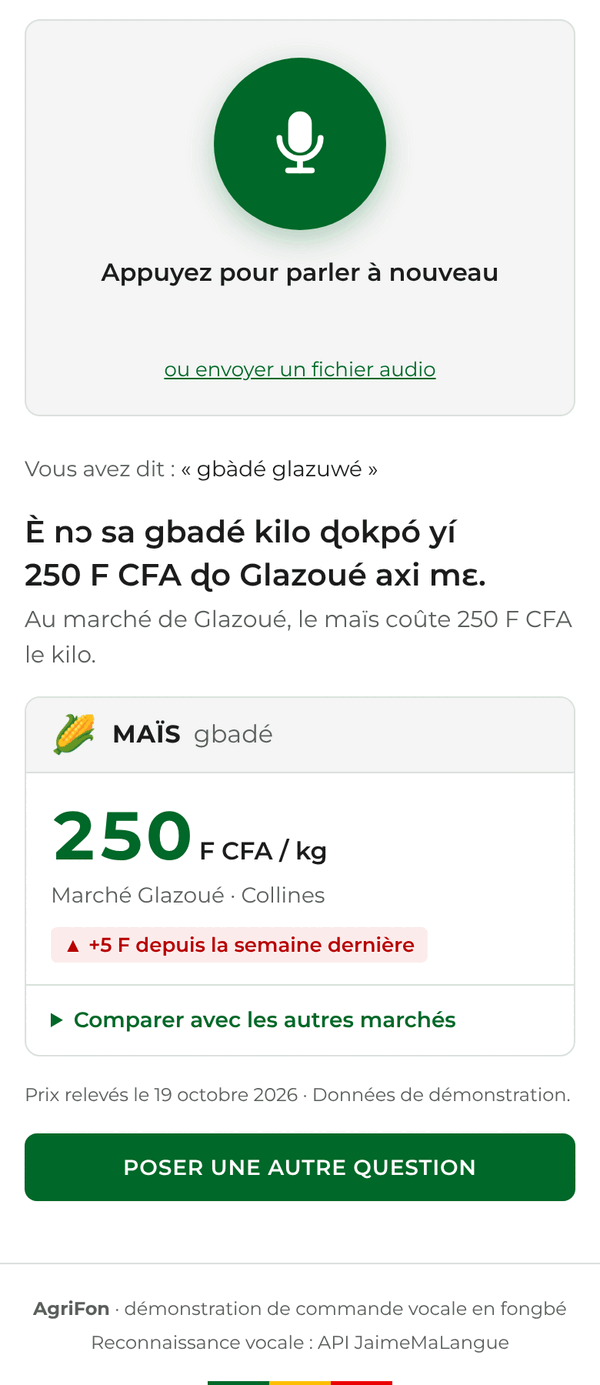
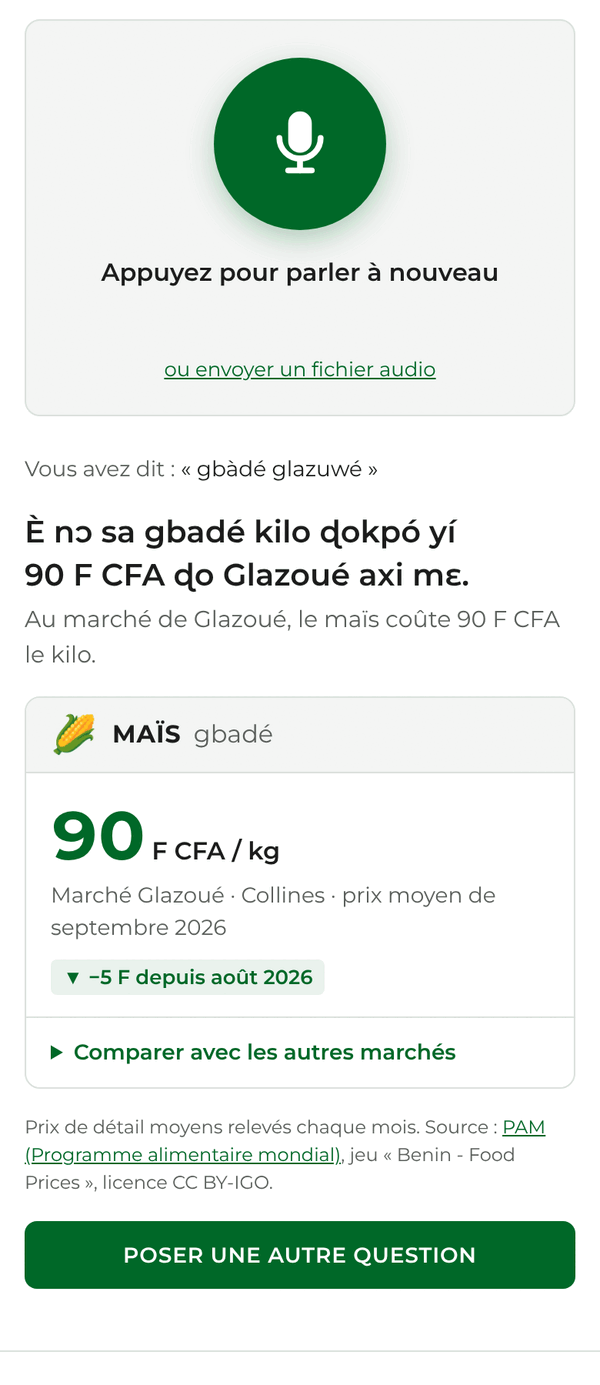
docs(readme): document wfp price source and weekly import

diff --git a/README.md b/README.md
@@ -17,13 +17,13 @@ L'application est une PWA (application web installable sur téléphone). La reco
   </tr>
 </table>
 
-<sub>Captures réalisées en mode simulation (réponses factices), bandeau « Mode simulation » masqué.</sub>
+<sub>Captures réalisées en mode simulation (transcriptions factices, prix réels), bandeau « Mode simulation » masqué.</sub>
 
 ## Les deux démos
 
 | Démo | La personne dit (en fongbé) | Ce qui est extrait | Ce que fait le système |
 | --- | --- | --- | --- |
-| Prix du marché | « Combien coûte le maïs au marché de Glazoué ? » | le produit et le marché | cherche le prix dans la base et l'affiche |
+| Prix du marché | « Combien coûte le maïs au marché de Glazoué ? » | le produit et le marché | cherche le dernier prix relevé et l'affiche |
 | Signalement d'une maladie des cultures | « Les feuilles de mon maïs jaunissent. » | la culture et le symptôme | transmet le signalement localisé au conseiller agricole et confirme la réception |
 
 Un écran conseiller (`/conseiller`) reçoit les signalements en direct. Quand le conseiller prend un signalement en charge, le téléphone de la personne affiche « Pris en charge par le conseiller ».
@@ -54,7 +54,7 @@ Le fichier `.env` est lu au démarrage. Il est ignoré par Git : les identifiant
 | `ASR_URL` | adresse de l'API | `https://51-159-167-70.sslip.io` |
 | `ASR_SIMULATION` | `1` pour des réponses factices, sans appel à l'API | désactivé |
 | `PORT`, `HOST` | port et interface d'écoute | `3000`, `0.0.0.0` |
-| `DOSSIER_DONNEES` | dossier des signalements et de leurs audios | `stockage` |
+| `DOSSIER_DONNEES` | dossier des signalements, de leurs audios et des prix importés | `stockage` |
 | `CODE_CONSEILLER` | si renseigné, l'écran conseiller demande ce code | aucun |
 
 ### Essayer sans identifiants
@@ -84,14 +84,20 @@ git clone https://github.com/Magloire04/demo_agriculture.git ~/agrifon-app
 cd ~/agrifon-app && bash scripts/deployer.sh mon-domaine.example
 ```
 
-Au premier passage, le script demande les identifiants de l'API et crée `.env`, lisible par le seul compte. Il déclare ensuite l'application Node.js avec la version la plus récente proposée (20.12 au minimum) et le fichier de démarrage `app.cjs`, la redémarre et vérifie que `/api/etat` répond.
+Au premier passage, le script demande les identifiants de l'API et crée `.env`, lisible par le seul compte. Il déclare ensuite l'application Node.js avec la version la plus récente proposée (20.12 au minimum) et le fichier de démarrage `app.cjs`, importe les derniers prix (voir « Prix réels »), redémarre l'application et vérifie que `/api/etat` répond.
 
 Pour mettre à jour le site, relancer la seconde commande : le code est récupéré depuis GitHub, `.env` et `stockage/` sont conservés.
+
+Pour importer les prix chaque semaine sans redéployer, ajouter cette tâche dans « Cron Jobs » de cPanel (ici le lundi à 6 h 17) :
+
+```
+17 6 * * 1 bash $HOME/agrifon-app/scripts/importer-prix.sh >> $HOME/agrifon-app/stockage/import-prix.log 2>&1
+```
 
 ## Déroulé de la démo
 
 1. Ouvrir `/conseiller` sur l'écran de la salle.
-2. Sur le téléphone, ouvrir « Prix du marché ». Appuyer sur le micro, dire la phrase, appuyer de nouveau. La réponse s'affiche, par exemple « Au marché de Glazoué, le maïs coûte 250 F CFA le kilo », avec le prix en grands caractères. Toucher « Comparer avec les autres marchés » affiche les prix des autres marchés.
+2. Sur le téléphone, ouvrir « Prix du marché ». Appuyer sur le micro, dire la phrase, appuyer de nouveau. La réponse s'affiche, par exemple « Au marché de Glazoué, le maïs coûte 90 F CFA le kilo », avec le prix en grands caractères, le mois du relevé et l'évolution depuis le relevé précédent. Toucher « Comparer avec les autres marchés » affiche les prix des autres marchés.
 3. Ouvrir « Signaler », partager la position ou choisir la commune, puis dire la phrase. Le téléphone confirme la réception avec une référence. Le signalement apparaît sur l'écran conseiller avec la transcription et le message vocal.
 4. Sur l'écran conseiller, cliquer sur « Prendre en charge ». Quelques secondes plus tard, le téléphone affiche « Pris en charge par le conseiller ».
 
@@ -106,11 +112,11 @@ L'application retrouve les mots attendus dans la transcription, sans tenir compt
 | Symptômes | `data/lexique.json`, champ `fon` des `symptomes` | vide : seuls les mots français sont reconnus |
 | Parties de la plante | `data/lexique.json`, champ `fon` des `parties` | seul « ama » (feuilles) ; tiges, racines et fruits vides |
 | Cultures | `data/lexique.json`, champ `fon` des `cultures` | quelques noms courants (gbadé, mɔlikun, azin…) à vérifier |
-| Produits | `data/prix.json`, champ `termes_fon` | idem |
-| Marchés | `data/prix.json`, champ `termes` | variantes de prononciation des noms de lieux |
+| Produits | `data/referentiel.json`, champ `termes_fon` | idem |
+| Marchés | `data/referentiel.json`, champ `termes` | variantes de prononciation des noms de lieux |
 | Communes | `data/communes.json`, champ `termes` | noms officiels ; variantes pour 13 communes sur 77 seulement |
-| Réponses affichées | `data/reponses.json`, champ `fon` | 14 phrases et 2 unités, rédigées d'après des sources publiées, à faire relire |
-| Noms des produits | `data/prix.json`, champ `nom_fon` | affichés à côté du nom français, à faire relire |
+| Réponses affichées | `data/reponses.json`, champ `fon` | 15 phrases et 2 unités, rédigées d'après des sources publiées, à faire relire |
+| Noms des produits | `data/referentiel.json`, champ `nom_fon` | affichés à côté du nom français, à faire relire |
 
 Méthode : dire chaque phrase de démonstration dans l'application, lire la ligne « Vous avez dit : … », ajouter les mots tels qu'ils y sont transcrits dans le fichier concerné, puis redémarrer le serveur.
 
@@ -131,13 +137,23 @@ flowchart LR
 
 Le téléphone n'appelle jamais l'API directement : il envoie l'audio au serveur AgriFon, qui ajoute les identifiants, comme l'exige la documentation de l'API. Le serveur n'envoie qu'une requête à la fois, car l'API traite les phrases une par une. Les codes d'erreur de l'API (audio trop court, trop long, service indisponible…) sont traduits en messages lisibles.
 
-Prix du marché (`server/prix.js`). L'audio part vers le mode marché de l'API (`POST /marche`), qui rend les produits reconnus dans son lexique. Le produit est rapproché de la base de prix et le marché est cherché dans la transcription. Sans marché, la réponse donne la fourchette de prix et le marché le moins cher. Avec un marché mais sans produit, elle liste tous les prix de ce marché.
+Prix du marché (`server/prix.js`). L'audio part vers le mode marché de l'API (`POST /marche`), qui rend les produits reconnus dans son lexique. Le produit est rapproché du référentiel des produits et le marché est cherché dans la transcription. Sans marché, la réponse donne la fourchette de prix et le marché le moins cher. Avec un marché mais sans produit, elle liste tous les prix de ce marché.
 
 Signalement (`server/signalement.js`). L'audio part vers le modèle général (`POST /transcribe`). La culture, la partie de la plante, le symptôme et la commune sont cherchés dans la transcription. Le signalement est enregistré dans `stockage/` avec la position GPS, la commune et le message vocal. Si une commune est choisie, les communes du même département sont transmises à l'API (paramètre `noms`) pour l'aider à reconnaître un nom de lieu.
 
 Réponses (`server/reponses.js`). Chaque réponse est construite dans les deux langues à partir des phrases-modèles de `data/reponses.json`, dont les `{…}` reçoivent le produit, le marché, le prix ou la commune. L'écran affiche le fongbé en grand, puis le français. Les montants restent écrits en chiffres, comme dans les textes publiés en fongbé.
 
-Base de prix (`data/prix.json`). Ce sont des données de démonstration, fictives mais vraisemblables : 13 produits, 13 marchés, prix de la semaine et de la semaine précédente. L'application le rappelle sous chaque réponse. Elles sont à remplacer par un vrai relevé.
+### Prix réels
+
+Les prix viennent du jeu de données « Benin - Food Prices » du Programme alimentaire mondial (PAM), publié sur [HDX](https://data.humdata.org/dataset/wfp-food-prices-for-benin) sous licence CC BY-IGO. Ce sont des prix de détail moyens en F CFA, relevés une fois par mois. Sous chaque réponse, l'application indique le mois du relevé et la source.
+
+- `data/referentiel.json` décrit les 13 produits et les 14 marchés de l'application, avec leurs noms en fongbé et le libellé correspondant dans le fichier du PAM (champ `pam`). Lokossa n'est pas suivi par le PAM : l'application répond qu'aucun prix n'y est relevé, puis donne ceux des autres marchés.
+- `scripts/importer-prix.js` télécharge le fichier CSV du PAM. Pour chaque produit et chaque marché, il garde le dernier relevé de moins de six mois et le relevé précédent, puis écrit `stockage/releves-prix.json`. Le serveur relit ce fichier dès qu'il change, sans redémarrage. Si l'import échoue, les prix précédents restent en place.
+- `data/releves-prix.json` est un instantané livré avec le code (relevés jusqu'au 15 septembre 2026). Le serveur s'en sert tant qu'aucun import n'a eu lieu.
+
+```bash
+npm run importer-prix
+```
 
 ### Routes du serveur
 
@@ -171,15 +187,20 @@ Les armoiries (`public/img/armoiries.png`) sont extraites du PDF de la charte, s
 app.cjs             point d'entrée pour les hébergeurs qui chargent l'application avec require()
 scripts/
   deployer.sh       installation et mise à jour sur un hébergement cPanel
+  importer-prix.js  import des prix du PAM
+  importer-prix.sh  le même import, pour une tâche planifiée cPanel
 server/
   index.js          serveur HTTP : fichiers de la PWA et routes /api
   asr.js            client de l'API de reconnaissance vocale (et mode simulation)
   prix.js           réponse « prix du marché »
+  pam.js            lecture du fichier de prix du PAM
+  releves.js        relevés de prix lus par le serveur, relus à chaque import
   reponses.js       phrases de réponse en français et en fongbé
   signalement.js    analyse et registre des signalements
   texte.js          comparaison de mots sans tons ni accents
 data/
-  prix.json         base de prix de démonstration (produits, marchés)
+  referentiel.json  produits et marchés, avec leurs libellés dans le fichier du PAM
+  releves-prix.json instantané des prix du PAM
   lexique.json      cultures, parties de la plante, symptômes
   reponses.json     phrases de réponse en français et en fongbé
   communes.json     les 77 communes du Bénin
@@ -198,16 +219,17 @@ docs/captures/      captures d'écran du README
 npm test
 ```
 
-Les 31 tests couvrent la comparaison de texte, la réponse « prix du marché » dans les deux langues, l'analyse et l'enregistrement des signalements, les routes du serveur et le client de l'API (authentification, erreurs, une requête à la fois).
+Les 45 tests couvrent la comparaison de texte, la lecture du fichier du PAM, le rechargement des prix, la réponse « prix du marché » dans les deux langues, l'analyse et l'enregistrement des signalements, les routes du serveur et le client de l'API (authentification, erreurs, une requête à la fois).
 
 ## Limites connues
 
 - Le vocabulaire fongbé des symptômes reste à fournir (voir « Préparer le vocabulaire en fongbé »).
 - Les réponses en fongbé n'ont pas encore été relues par un locuteur natif.
-- Les prix sont fictifs.
+- Les prix sont mensuels : entre deux relevés du PAM, ils ne suivent pas les variations d'un jour à l'autre.
+- Au dernier import, le PAM ne relevait pas le riz local à Ouando, Pobè, Azovè, Bohicon et Djougou, ni le manioc frais à Pobè, Parakou, Djougou et Natitingou. Pour ces cas, l'application le dit et donne les prix des autres marchés.
 - Les signalements sont enregistrés dans un fichier JSON. Cela suffit pour une démo, pas pour un service en production.
 - D'après la documentation de l'API, les nombres dits en français et les noms propres rares sont les points faibles de la reconnaissance.
 
 ## Licence
 
-Le code est sous licence MIT (voir [LICENSE](LICENSE)). La police Montserrat est distribuée sous licence SIL Open Font License ([public/fonts/OFL.txt](public/fonts/OFL.txt)). Les armoiries sont l'emblème de la République du Bénin, utilisé ici selon la charte graphique du Gouvernement.
+Le code est sous licence MIT (voir [LICENSE](LICENSE)). Les prix sont ceux du PAM, sous licence [CC BY-IGO](https://creativecommons.org/licenses/by/3.0/igo/), cités comme source dans l'application. La police Montserrat est distribuée sous licence SIL Open Font License ([public/fonts/OFL.txt](public/fonts/OFL.txt)). Les armoiries sont l'emblème de la République du Bénin, utilisé ici selon la charte graphique du Gouvernement.
